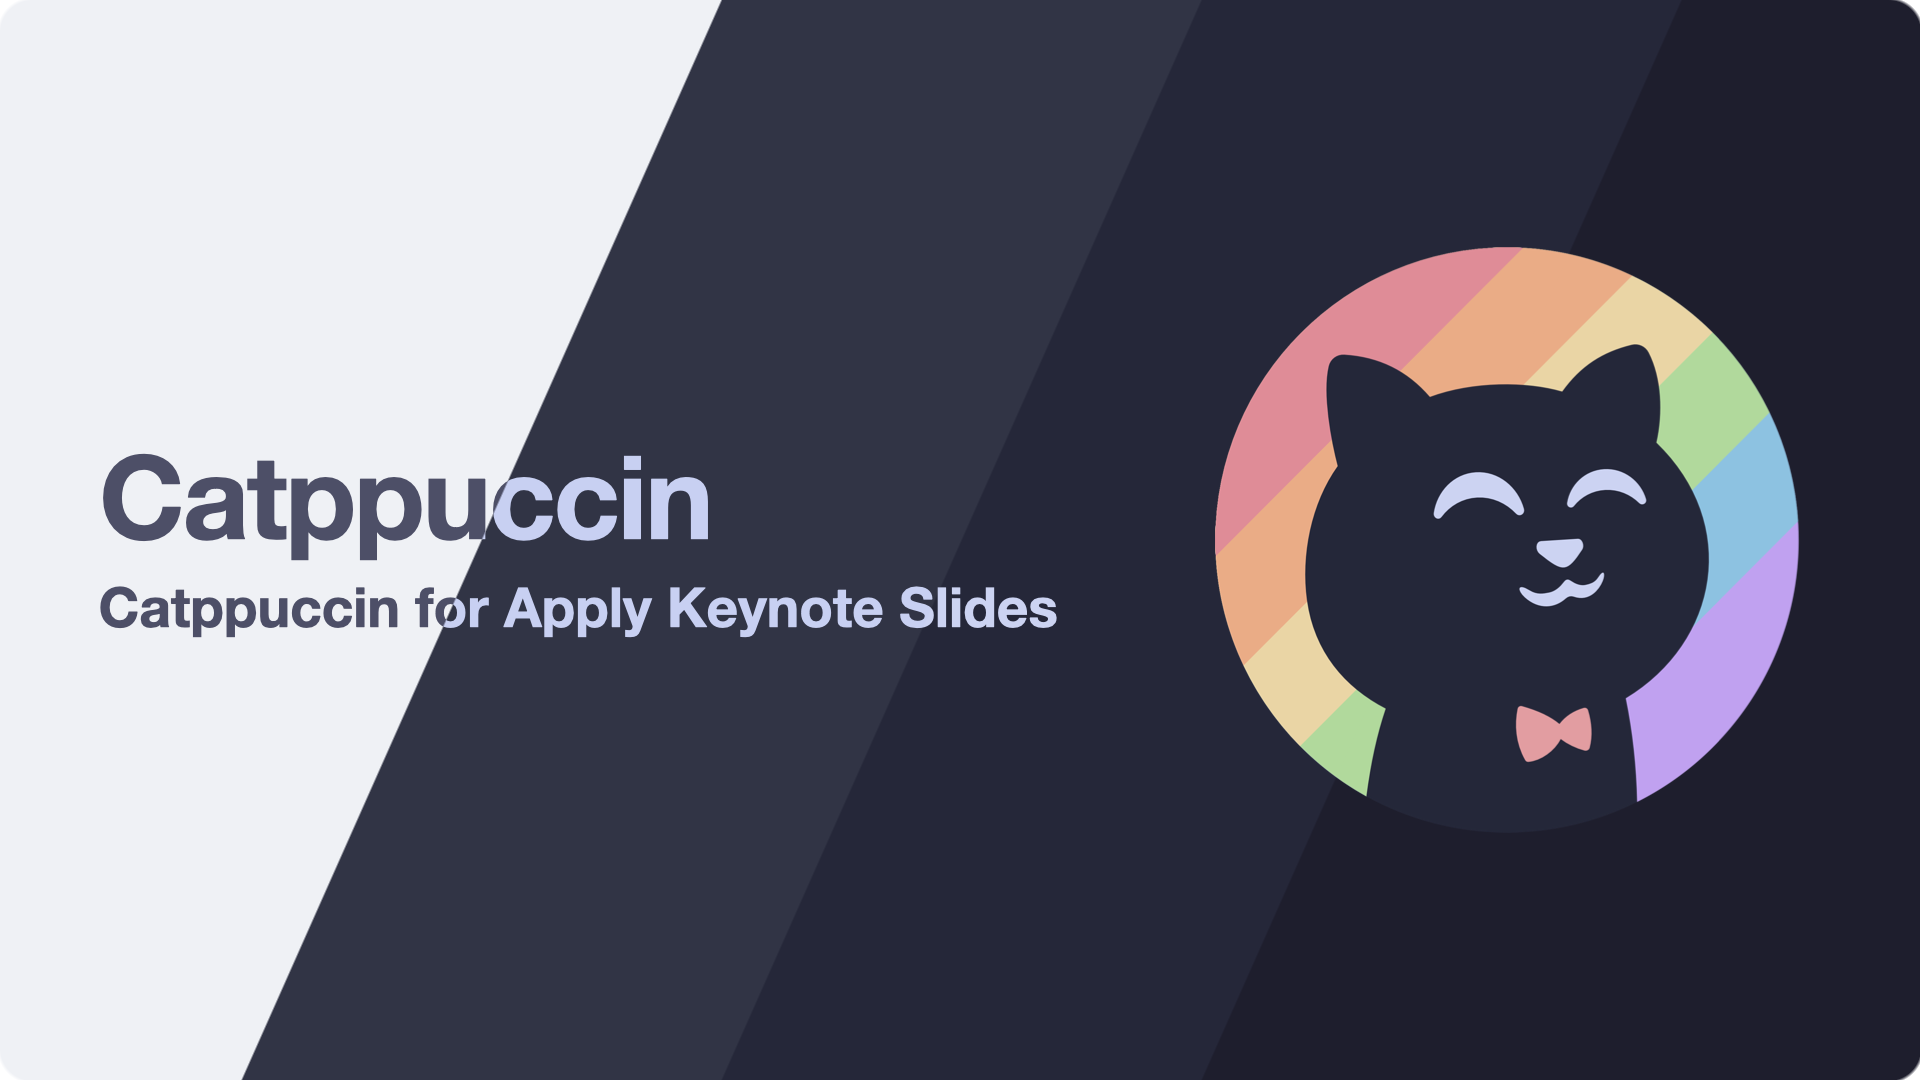
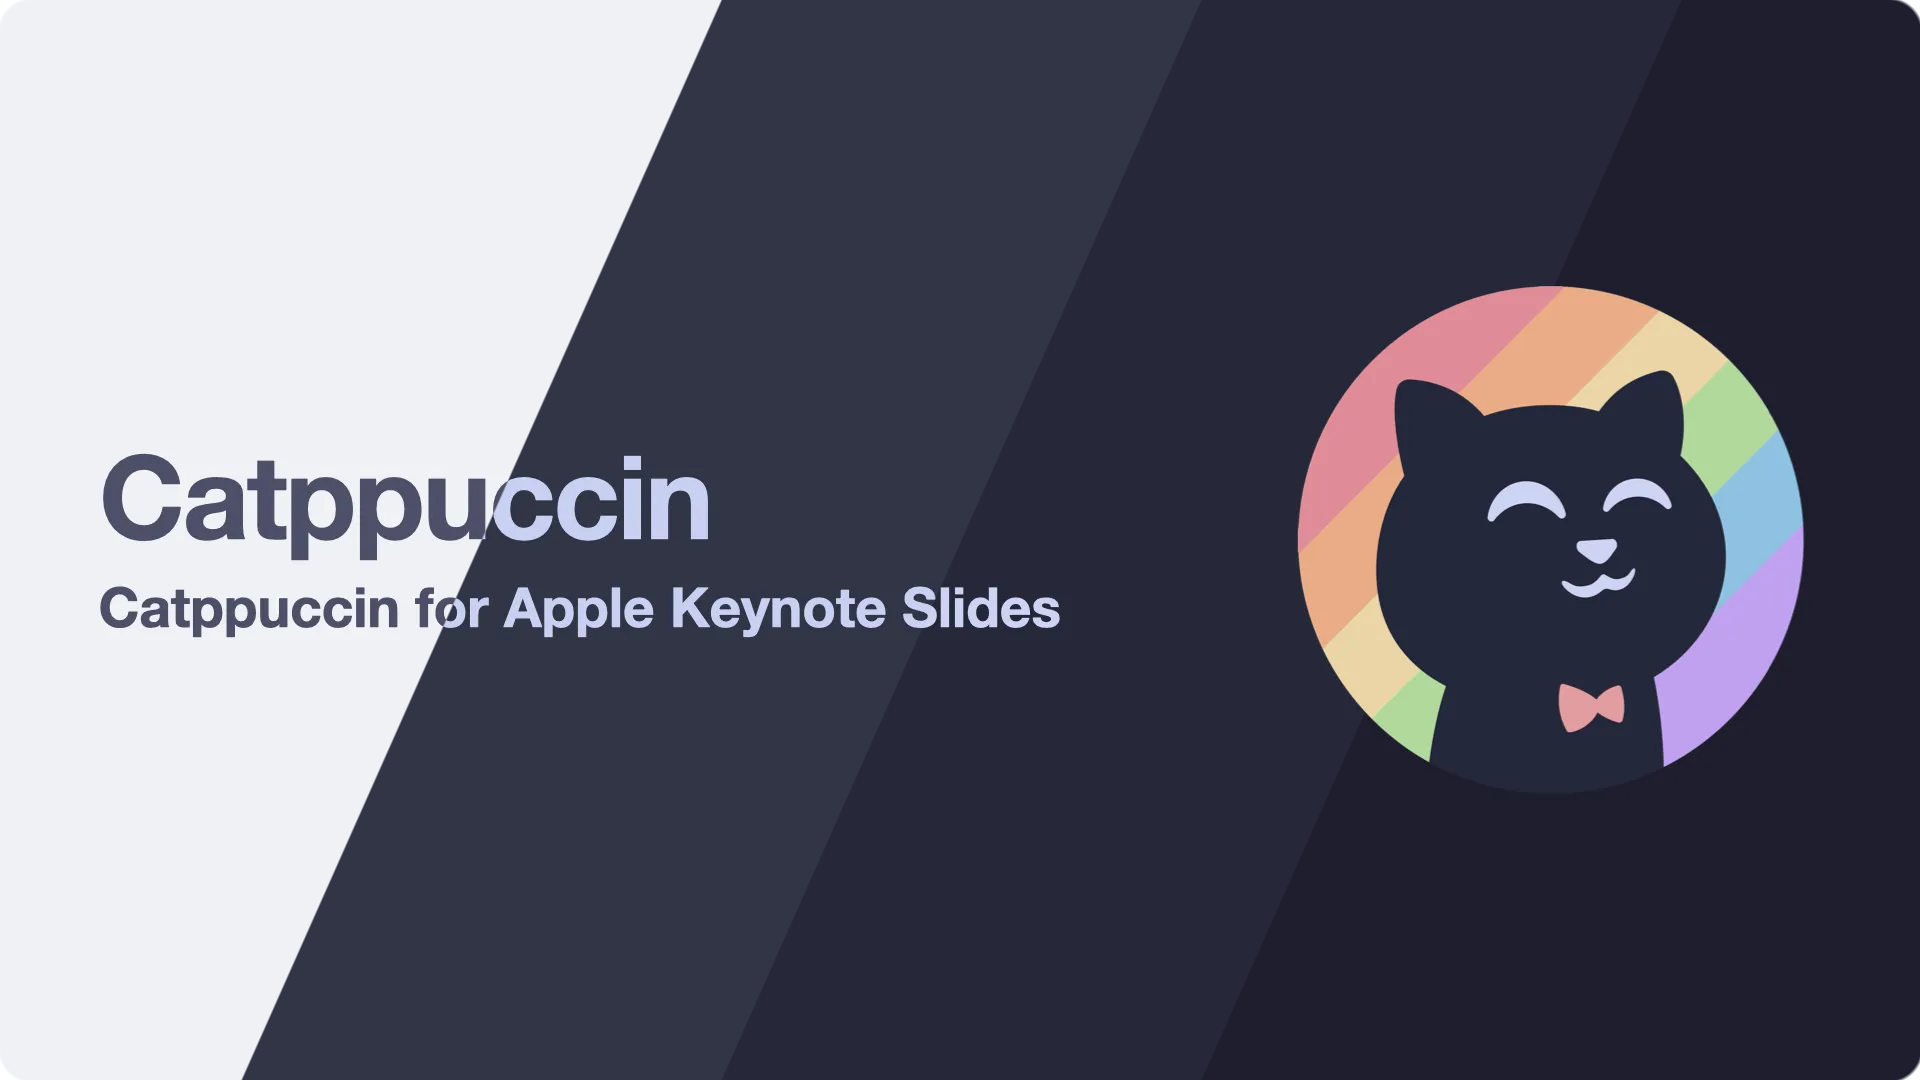
feat: updates README and assets for improved clarity and format
Corrects typo in project description and removes redundant section.
Replaces PNG images with optimized WEBP format.
Renames and reorganizes theme files into a dedicated 'themes' folder.

diff --git a/README.md b/README.md
@@ -1,7 +1,7 @@
 <h3 align="center">
 	<img src="https://raw.githubusercontent.com/catppuccin/catppuccin/main/assets/logos/exports/1544x1544_circle.png" width="100" alt="Logo"/><br/>
 	<img src="https://raw.githubusercontent.com/catppuccin/catppuccin/main/assets/misc/transparent.png" height="30" width="0px"/>
-	Catppuccin for <a href="https://github.com/stevin-wilson/keynote-slides">Apply Keynote Slides</a>
+	Catppuccin for <a href="https://github.com/stevin-wilson/keynote-slides">Apple Keynote Slides</a>
 	<img src="https://raw.githubusercontent.com/catppuccin/catppuccin/main/assets/misc/transparent.png" height="30" width="0px"/>
 </h3>
 
@@ -11,8 +11,6 @@
 	<a href="https://github.com/stevin-wilson/keynote-slides/contributors"><img src="https://img.shields.io/github/contributors/stevin-wilson/keynote-slides?colorA=363a4f&colorB=a6da95&style=for-the-badge"></a>
 </p>
 
-## Keynote Themes
-
 <p align="center">
 	<img src="assets/preview.webp"/>
 </p>
@@ -21,26 +19,26 @@
 
 <details>
 <summary>🌻 Latte</summary>
-<img src="assets/latte.png"/>
+<img src="assets/latte.webp"/>
 </details>
 <details>
 <summary>🪴 Frappé</summary>
-<img src="assets/frappe.png"/>
+<img src="assets/frappe.webp"/>
 </details>
 <details>
 <summary>🌺 Macchiato</summary>
-<img src="assets/macchiato.png"/>
+<img src="assets/macchiato.webp"/>
 </details>
 <details>
 <summary>🌿 Mocha</summary>
-<img src="assets/mocha.png"/>
+<img src="assets/mocha.webp"/>
 </details>
 
 ## Usage
 
 To use the Keynote themes:
 
-1. Navigate to the `Catppuccin` subfolder and download the desired `.kth` file.
+1. Navigate to the `themes` subfolder and download the desired `.kth` file.
 2. Double-click the downloaded file to install and use the theme in your Keynote presentations.
 
 __Note:__ The Catppuccin color palette is available as an Apple Color List (.clr) at [catppuccin/palette](https://github.com/catppuccin/palette). You can add it to macOS’s color picker for consistency across applications.
